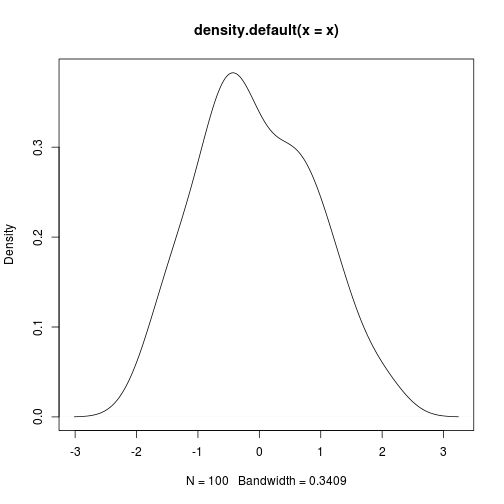
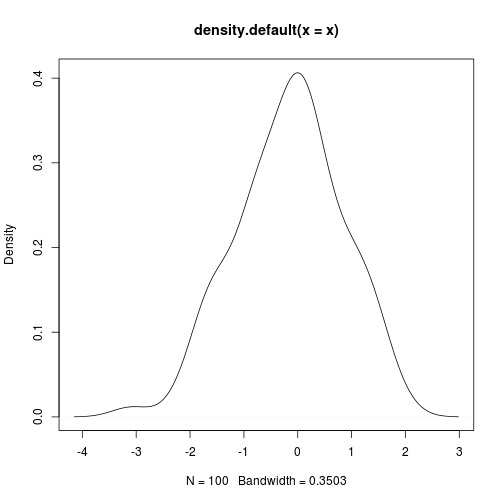
updates

diff --git a/about/index.html b/about/index.html
@@ -7,7 +7,7 @@ title : About
 <script type="text/javascript" src="/media/js/timeline.js"></script>
 
 <script src="/media/js/kickstart.js"></script>  
-<link rel="stylesheet" href="/media/css/kickstart/kickstart.css" media="all" />  
+<!-- <link rel="stylesheet" href="/media/css/kickstart/kickstart.css" media="all" />  
 
 <!--    
 <blockquote>
@@ -22,10 +22,10 @@ title : About
 
 <p>A technologist, problem solver and quick learner.</p>
 -->
-<!--
+
 				<p> 如果人生是一部电影，我愿无悔一生。</p>
-				<p> 我爱运动，喜欢玩足球。</p>
--->
+<!-- 				<p> 我爱运动，喜欢玩足球。</p>
+
 <!-- Menu Horizontal 
 <ul class="menu">
 <li class="current"><a href="">Item 1</a></li>

diff --git a/_layouts/default.html b/_layouts/default.html
@@ -37,8 +37,6 @@
     
     <script type="text/javascript" src="/media/js/application.js"></script>
      -->
-     <script src="/media/js/kickstart.js"></script>  
-     <link rel="stylesheet" href="/media/css/kickstart/kickstart.css" media="all" />  
      <script type="text/javascript" src="/media/js/application.js"></script>
 <!-- go to top -->
     <script type="text/javascript" src="/media/js/go-top.js"></script>

diff --git a/_posts/2014-01-24-shi-yong--rmarkdown--fa-biao-bo-ke.md b/_posts/2014-01-24-shi-yong--rmarkdown--fa-biao-bo-ke.md
@@ -38,7 +38,7 @@ status:    process
 
 - 最后，就是 **knitr** 与 **Rmardown** 可以轻松的实现博客撰写。现在，我需要做的就是使用 **Markdown** 语法输入，然后在需要 **R** 的地方直接插入代码即可。一篇完整的博客就是我沿着自己的想法一路写到底，中间不会有其他的打扰，不要反复的插入格式命令。
 
-## 使用 **Rmarkdown** 
+## 使用 **Rmardown** 
 
 下面，我介绍一下如何实现将 **R** 代码编译为网页 **Markdown** 格式。由于 **Jekyll** 支持将 **Markdown** 编译成 **Html** 网页，因此，我们就可以很方便的将 **R** 文件编译成 **Html** 并发布到 **Github** 上面了。我主要参考了 Jason Bryer 的帖子， ["Using (R) Markdown, Jekyll, & GitHub for a Website"](http://jason.bryer.org/posts/2012-12-10/Markdown_Jekyll_R_for_Blogging.html)。另外，由于这个帖子生成的图片存储在同样一个文件夹下面，有时我想找某个博客的图片时，会非常的不方便。于是我对其做了一个小小的修改，将经过 **R** 产生的图片放在与帖子相对应的文件夹目录下，方便查找。比如，我有一个文档，`2014-01-24-shi-yong--rmarkdown--fa-biao-bo-ke.Rmd`，那么，图片的存放目录应该是
 
@@ -151,9 +151,13 @@ status: process
 ### 例子
 
 比如这个 `R` 代码，我们可以直接生成图片。
-```{r}
+
+```r
 x = rnorm(100)
 plot(density(x))
 ```
+
+![plot of chunk unnamed-chunk-1](figure/unnamed-chunk-1.png) 
+
 
 
